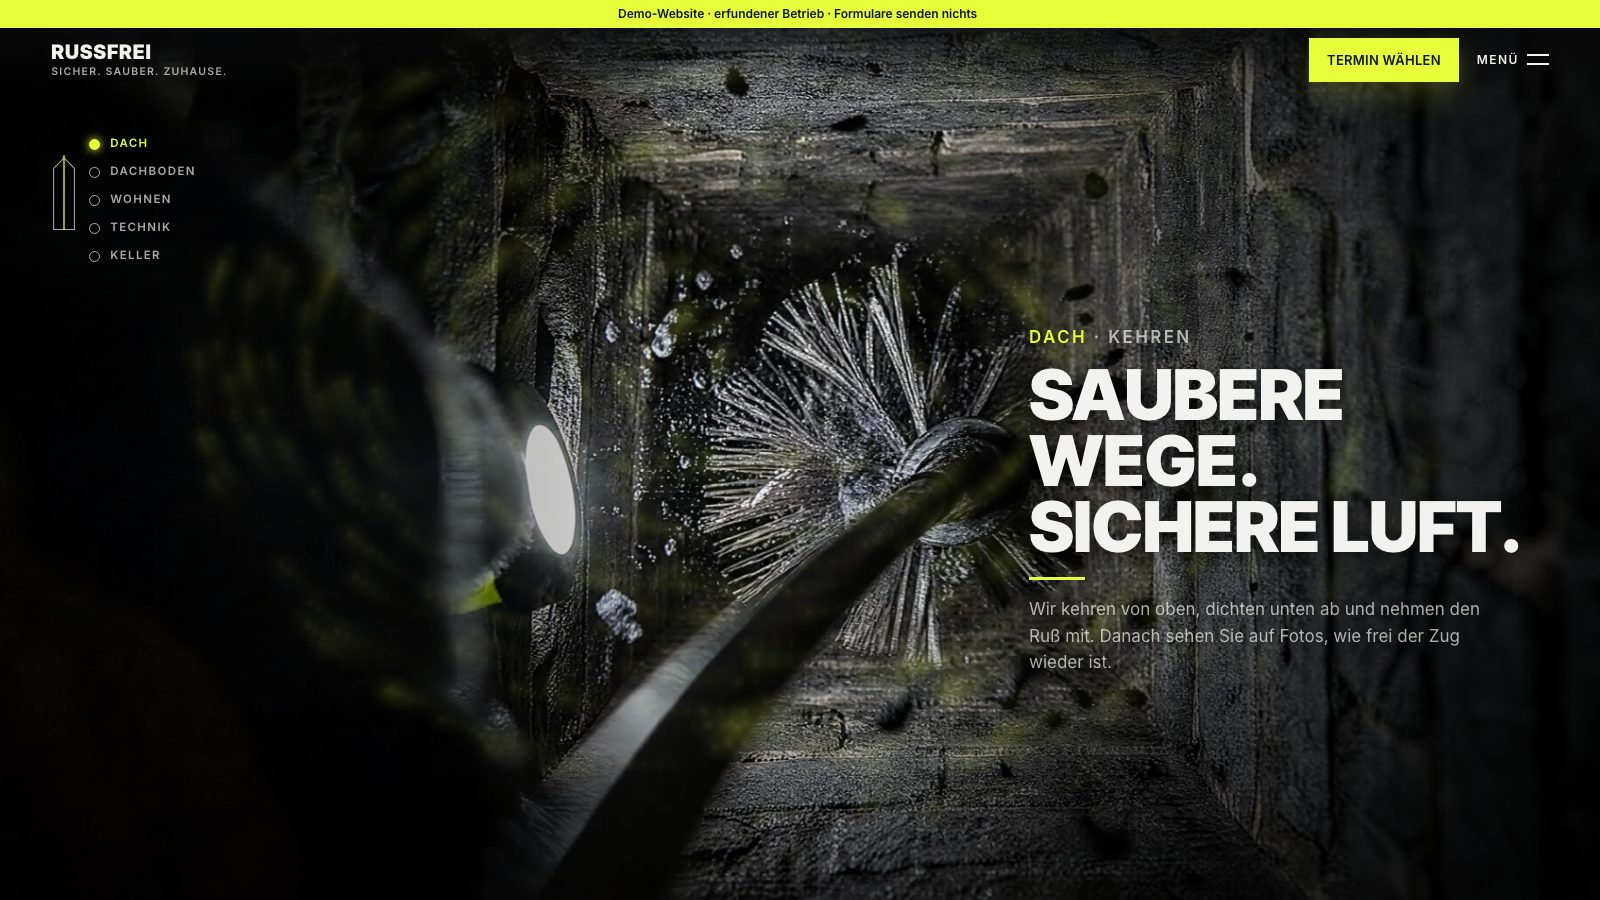
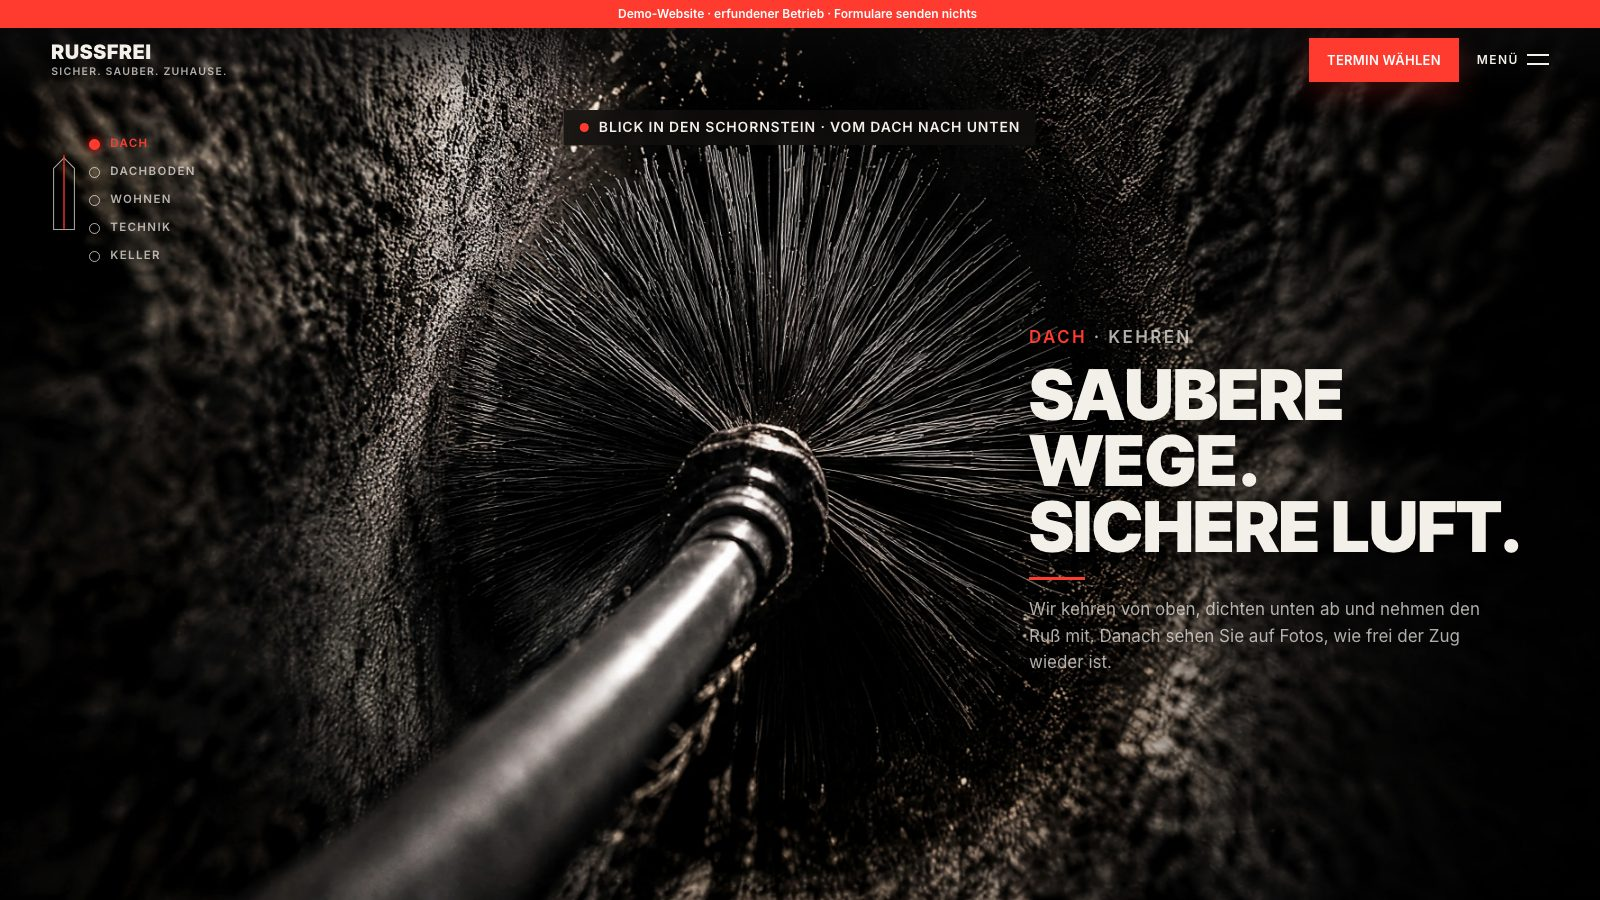
Kehren-Bild aus Storyboard

diff --git a/site/main.js b/site/main.js
@@ -23,7 +23,7 @@ const HOUSE = window.KW_HOUSE || { img: 'h-1', th: 'h-1t', w: 3584, h: 2016, x: 
 const FLOORS = ['DACH', 'DACHBODEN', 'WOHNEN', 'TECHNIK', 'KELLER'];
 const LABEL = { DACH: 'Dach', DACHBODEN: 'Dachboden', WOHNEN: 'Wohnen', TECHNIK: 'Technik', KELLER: 'Keller' };
 const RING = { 'h-5': { x: 0.78, y: 0.28, w: 0.28 } };
-const POS = { 'h-2': '58% 50%', 'h-4': '55% 50%', 'h-5': '74% 50%', 'h-7': '30% 50%' };
+const POS = { 'h-2': '47% 50%', 'h-4': '55% 50%', 'h-5': '74% 50%', 'h-7': '30% 50%' };
 
 const cutImg = $('#cutImg'), cutTh = $('#cutTh'), cutZ = $('#cutZ');
 const houseOK = has('img', HOUSE.img);

diff --git a/verlauf/2026-11-25.md b/verlauf/2026-11-25.md
@@ -8,3 +8,4 @@
 - 01:45 Firmenname RUSSFREI (Eugen). Abnahme-Bilder groß je Kapitel (abnahme/, tools/abnahme.py).
 - 01:55 Abnahme-Seite (Artifact) https://claude.ai/artifact/GwkU9mzrY343ckq4P4rpAW. Masterfile V2.67: Entscheidungen/Abnahmen groß und einzeln, nie Mini-Raster.
 - 02:15 Feedback Eugen: grün/billig/zugeschmiertes Foto → Ruß+Signalrot, Rauch grau+Glut nur im Übergang, Fotos sauber, Ortsangaben. Kehren-Bild aus Storyboard-Panel 2 neu (H-2B läuft auf sjinn). Rest gelobt.
+- 03:15 H-2B (Kehren aus Storyboard-Panel 2, ohne Schrift) eingebaut, altes H-2 als H-2_alt.png. Abnahme-Bilder neu.
